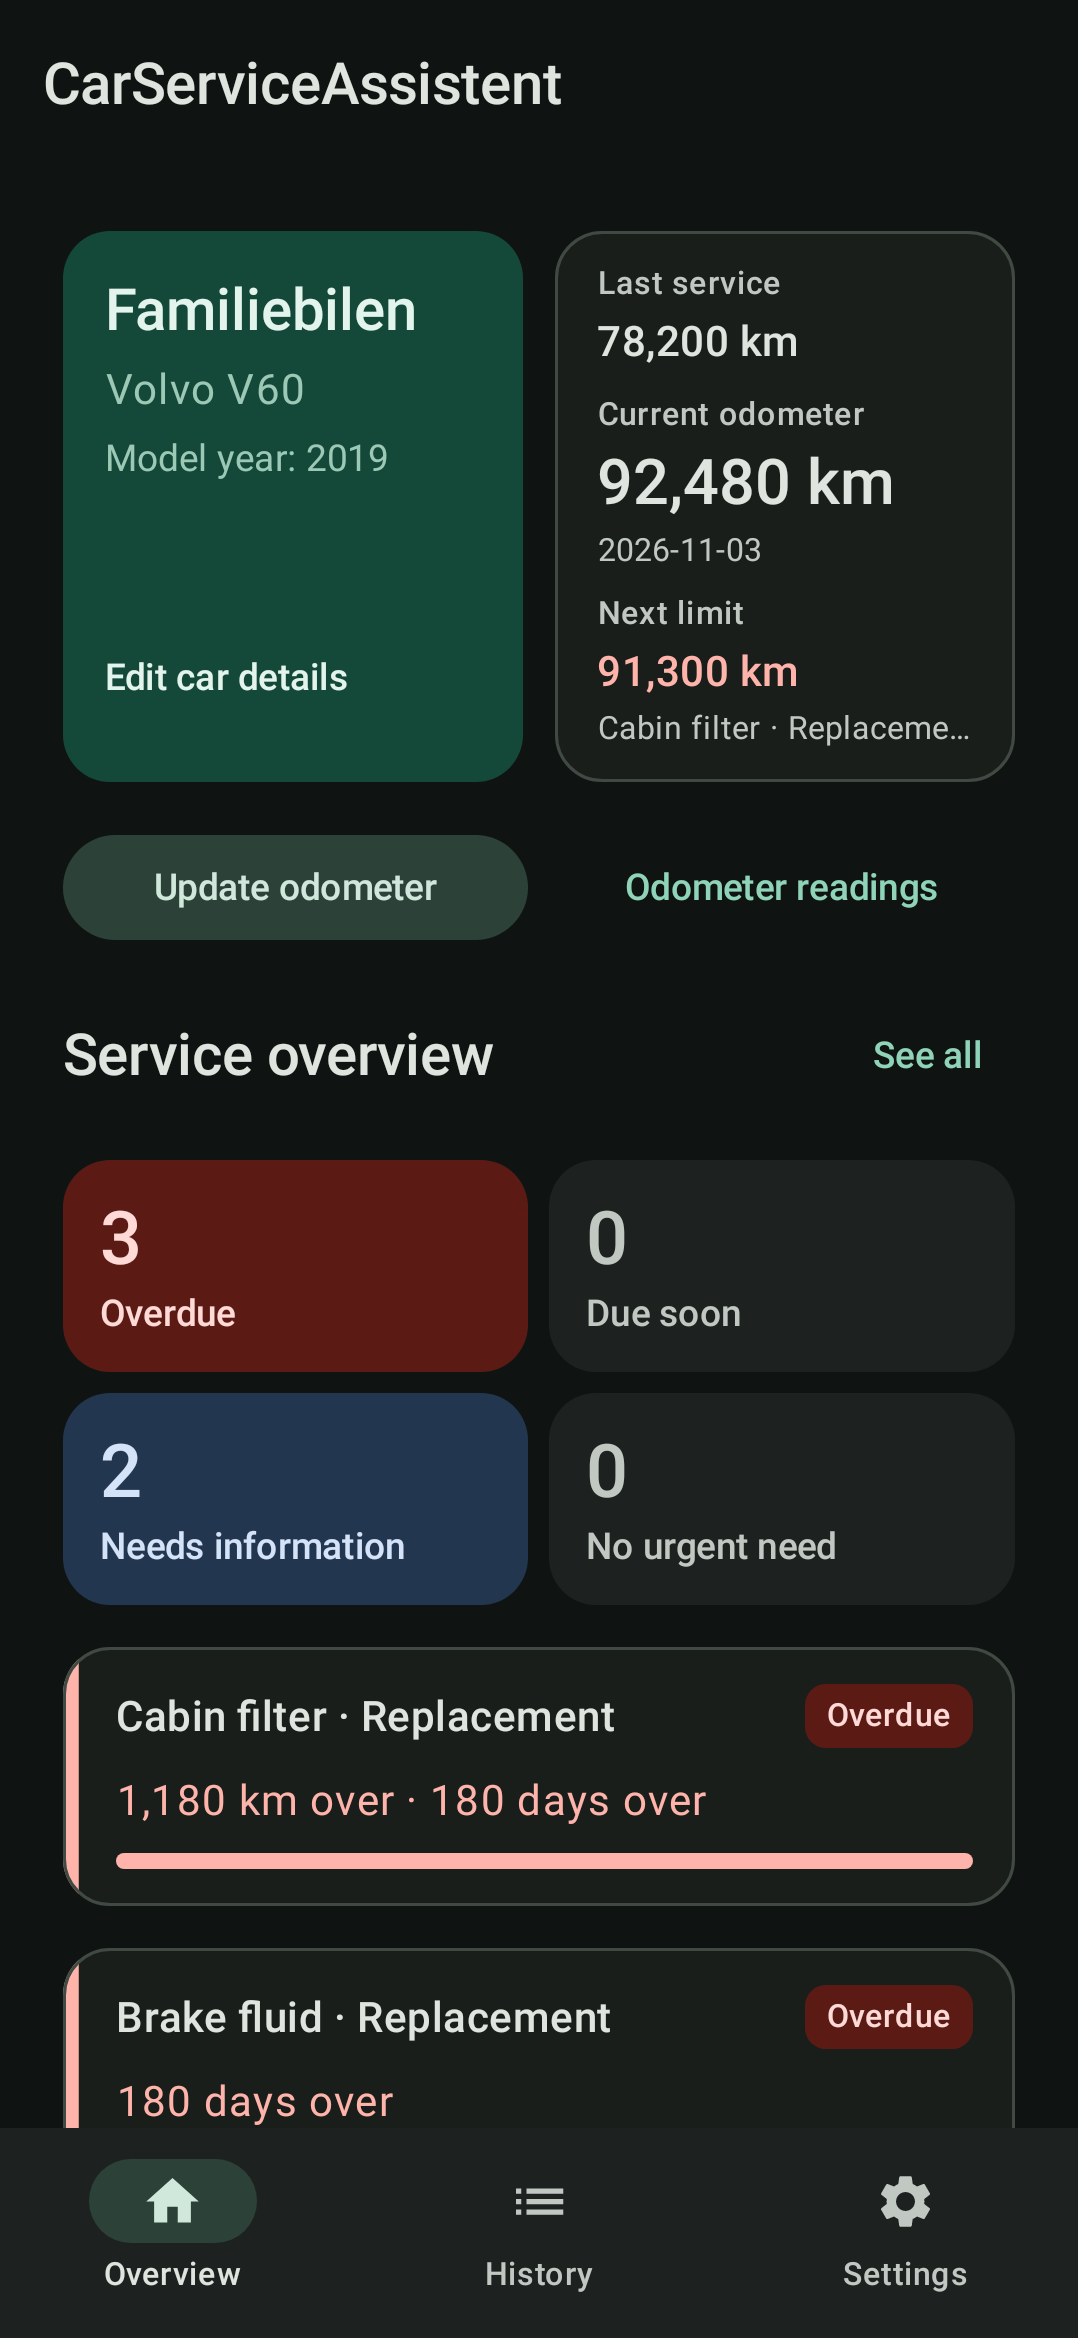
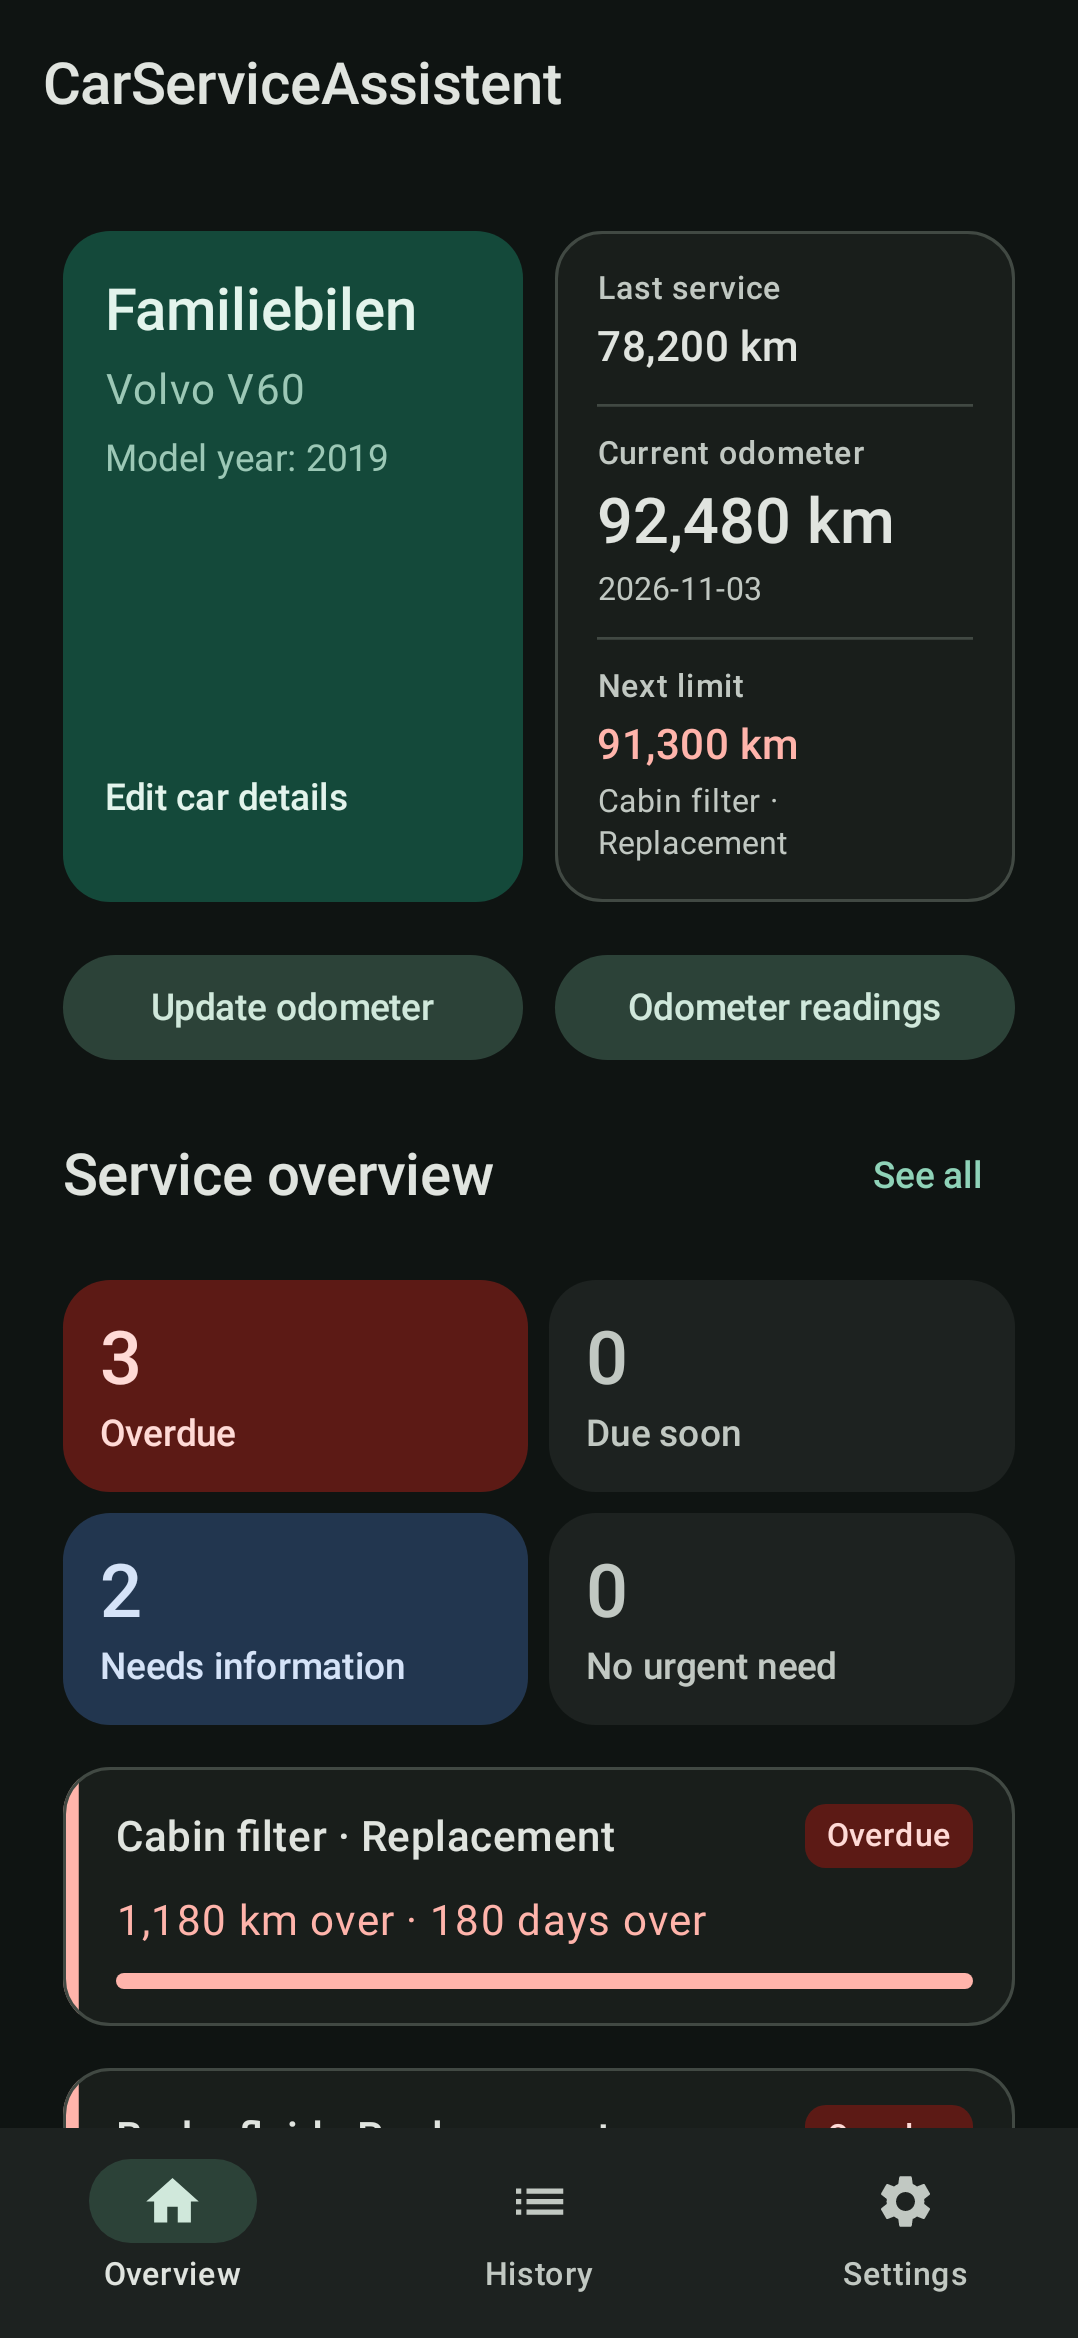
fix: overview — separate the three mileage groups; both odometer actions as matching buttons
Claude-Session: https://claude.ai/code/session_01HjoZJ8yKa7bY5hk5TaW4g1

diff --git a/app/src/main/java/app/servicepassport/android/ui/GaragePages.kt b/app/src/main/java/app/servicepassport/android/ui/GaragePages.kt
@@ -76,21 +76,26 @@ import java.time.LocalDate
             }
         }
         Surface(color = scheme.surfaceContainerLow, shape = MaterialTheme.shapes.medium, border = BorderStroke(1.dp, scheme.outlineVariant), modifier = Modifier.weight(1f).fillMaxHeight()) {
-            Column(Modifier.padding(horizontal = 16.dp, vertical = 12.dp), verticalArrangement = Arrangement.spacedBy(2.dp)) {
-                // Mileage at the most recent recorded service, the selected current reading, and the nearest distance limit.
+            // Three separate groups: the most recent recorded service, the selected current reading, the nearest distance limit.
+            Column(Modifier.padding(horizontal = 16.dp, vertical = 14.dp), verticalArrangement = Arrangement.spacedBy(10.dp)) {
                 val previous = snapshot.history.firstNotNullOfOrNull { it.reading }
-                OdometerLine(stringResource(R.string.previous_service_km), previous?.let { formattedKm(it.km, locale) + " km" }, scheme.onSurface)
-                Spacer(Modifier.height(4.dp))
-                Text(stringResource(R.string.current_odometer), style = MaterialTheme.typography.labelMedium, color = scheme.onSurfaceVariant)
-                val reading = snapshot.currentReading
-                if (reading == null) Text(stringResource(R.string.odometer_missing), style = MaterialTheme.typography.bodyMedium, modifier = Modifier.testTag("no_current_reading")) else {
-                    Text(formattedKm(reading.km, locale) + " km", style = MaterialTheme.typography.headlineSmall, modifier = Modifier.testTag("current_km"))
-                    Text(LocalDates.text(reading.observedDay, locale), style = MaterialTheme.typography.bodySmall, color = scheme.onSurfaceVariant, modifier = Modifier.testTag("current_reading_date"))
+                OdometerGroup(stringResource(R.string.previous_service_km)) {
+                    Text(previous?.let { formattedKm(it.km, locale) + " km" } ?: stringResource(R.string.no_value), style = MaterialTheme.typography.titleMedium)
                 }
-                Spacer(Modifier.height(4.dp))
+                HorizontalDivider(color = scheme.outlineVariant)
+                OdometerGroup(stringResource(R.string.current_odometer)) {
+                    val reading = snapshot.currentReading
+                    if (reading == null) Text(stringResource(R.string.odometer_missing), style = MaterialTheme.typography.bodyMedium, modifier = Modifier.testTag("no_current_reading")) else {
+                        Text(formattedKm(reading.km, locale) + " km", style = MaterialTheme.typography.headlineSmall, modifier = Modifier.testTag("current_km"))
+                        Text(LocalDates.text(reading.observedDay, locale), style = MaterialTheme.typography.bodySmall, color = scheme.onSurfaceVariant, modifier = Modifier.testTag("current_reading_date"))
+                    }
+                }
+                HorizontalDivider(color = scheme.outlineVariant)
                 val next = dashboard?.takeIf { !it.calculationUnavailable }?.tasks?.filter { it.dueKm != null }?.minByOrNull { it.dueKm!! }
-                OdometerLine(stringResource(R.string.next_limit_km), next?.dueKm?.let { formattedKm(it.toLong(), locale) + " km" }, next?.let { colors.status(it.category).accent } ?: scheme.onSurface)
-                next?.let { Text(workLabel(WorkInput(it.task.action.code, it.task.operation.code)), style = MaterialTheme.typography.bodySmall, color = scheme.onSurfaceVariant, maxLines = 1, overflow = TextOverflow.Ellipsis) }
+                OdometerGroup(stringResource(R.string.next_limit_km)) {
+                    Text(next?.dueKm?.let { formattedKm(it.toLong(), locale) + " km" } ?: stringResource(R.string.no_value), style = MaterialTheme.typography.titleMedium, color = next?.let { colors.status(it.category).accent } ?: scheme.onSurface)
+                    next?.let { Text(workLabel(WorkInput(it.task.action.code, it.task.operation.code)), style = MaterialTheme.typography.bodySmall, color = scheme.onSurfaceVariant, maxLines = 2, overflow = TextOverflow.Ellipsis) }
+                }
             }
         }
     }
@@ -98,15 +103,17 @@ import java.time.LocalDate
         if (today.toEpochDay() - reading.observedDay > AppPolicy.ODOMETER_STALE_AFTER_DAYS) Text(stringResource(R.string.odometer_stale), style = MaterialTheme.typography.bodySmall)
         if (reading.exceptionReason.isNotEmpty()) Text(stringResource(R.string.exception_recorded), style = MaterialTheme.typography.bodySmall)
     }
-    Row(Modifier.fillMaxWidth(), verticalAlignment = Alignment.CenterVertically, horizontalArrangement = Arrangement.spacedBy(8.dp)) {
-        FilledTonalButton(onClick = { go("reading/new") }, modifier = Modifier.weight(1f).testTag("add_reading")) { Text(stringResource(R.string.update_odometer)) }
-        TextButton(onClick = { go("readings") }, modifier = Modifier.weight(1f).testTag("reading_history")) { Text(stringResource(R.string.reading_history)) }
+    Row(Modifier.fillMaxWidth(), verticalAlignment = Alignment.CenterVertically, horizontalArrangement = Arrangement.spacedBy(12.dp)) {
+        FilledTonalButton(onClick = { go("reading/new") }, modifier = Modifier.weight(1f).testTag("add_reading")) { Text(stringResource(R.string.update_odometer), maxLines = 1, overflow = TextOverflow.Ellipsis) }
+        FilledTonalButton(onClick = { go("readings") }, modifier = Modifier.weight(1f).testTag("reading_history")) { Text(stringResource(R.string.reading_history), maxLines = 1, overflow = TextOverflow.Ellipsis) }
     }
 }
 
-@Composable private fun OdometerLine(label: String, value: String?, color: androidx.compose.ui.graphics.Color) {
-    Text(label, style = MaterialTheme.typography.labelMedium, color = MaterialTheme.colorScheme.onSurfaceVariant)
-    Text(value ?: stringResource(R.string.no_value), style = MaterialTheme.typography.titleMedium, color = color)
+@Composable private fun OdometerGroup(label: String, content: @Composable ColumnScope.() -> Unit) {
+    Column(verticalArrangement = Arrangement.spacedBy(2.dp)) {
+        Text(label, style = MaterialTheme.typography.labelMedium, color = MaterialTheme.colorScheme.onSurfaceVariant)
+        content()
+    }
 }
 
 @Composable private fun ActionTile(label: String, icon: ImageVector, primary: Boolean, modifier: Modifier = Modifier, onClick: () -> Unit) {
